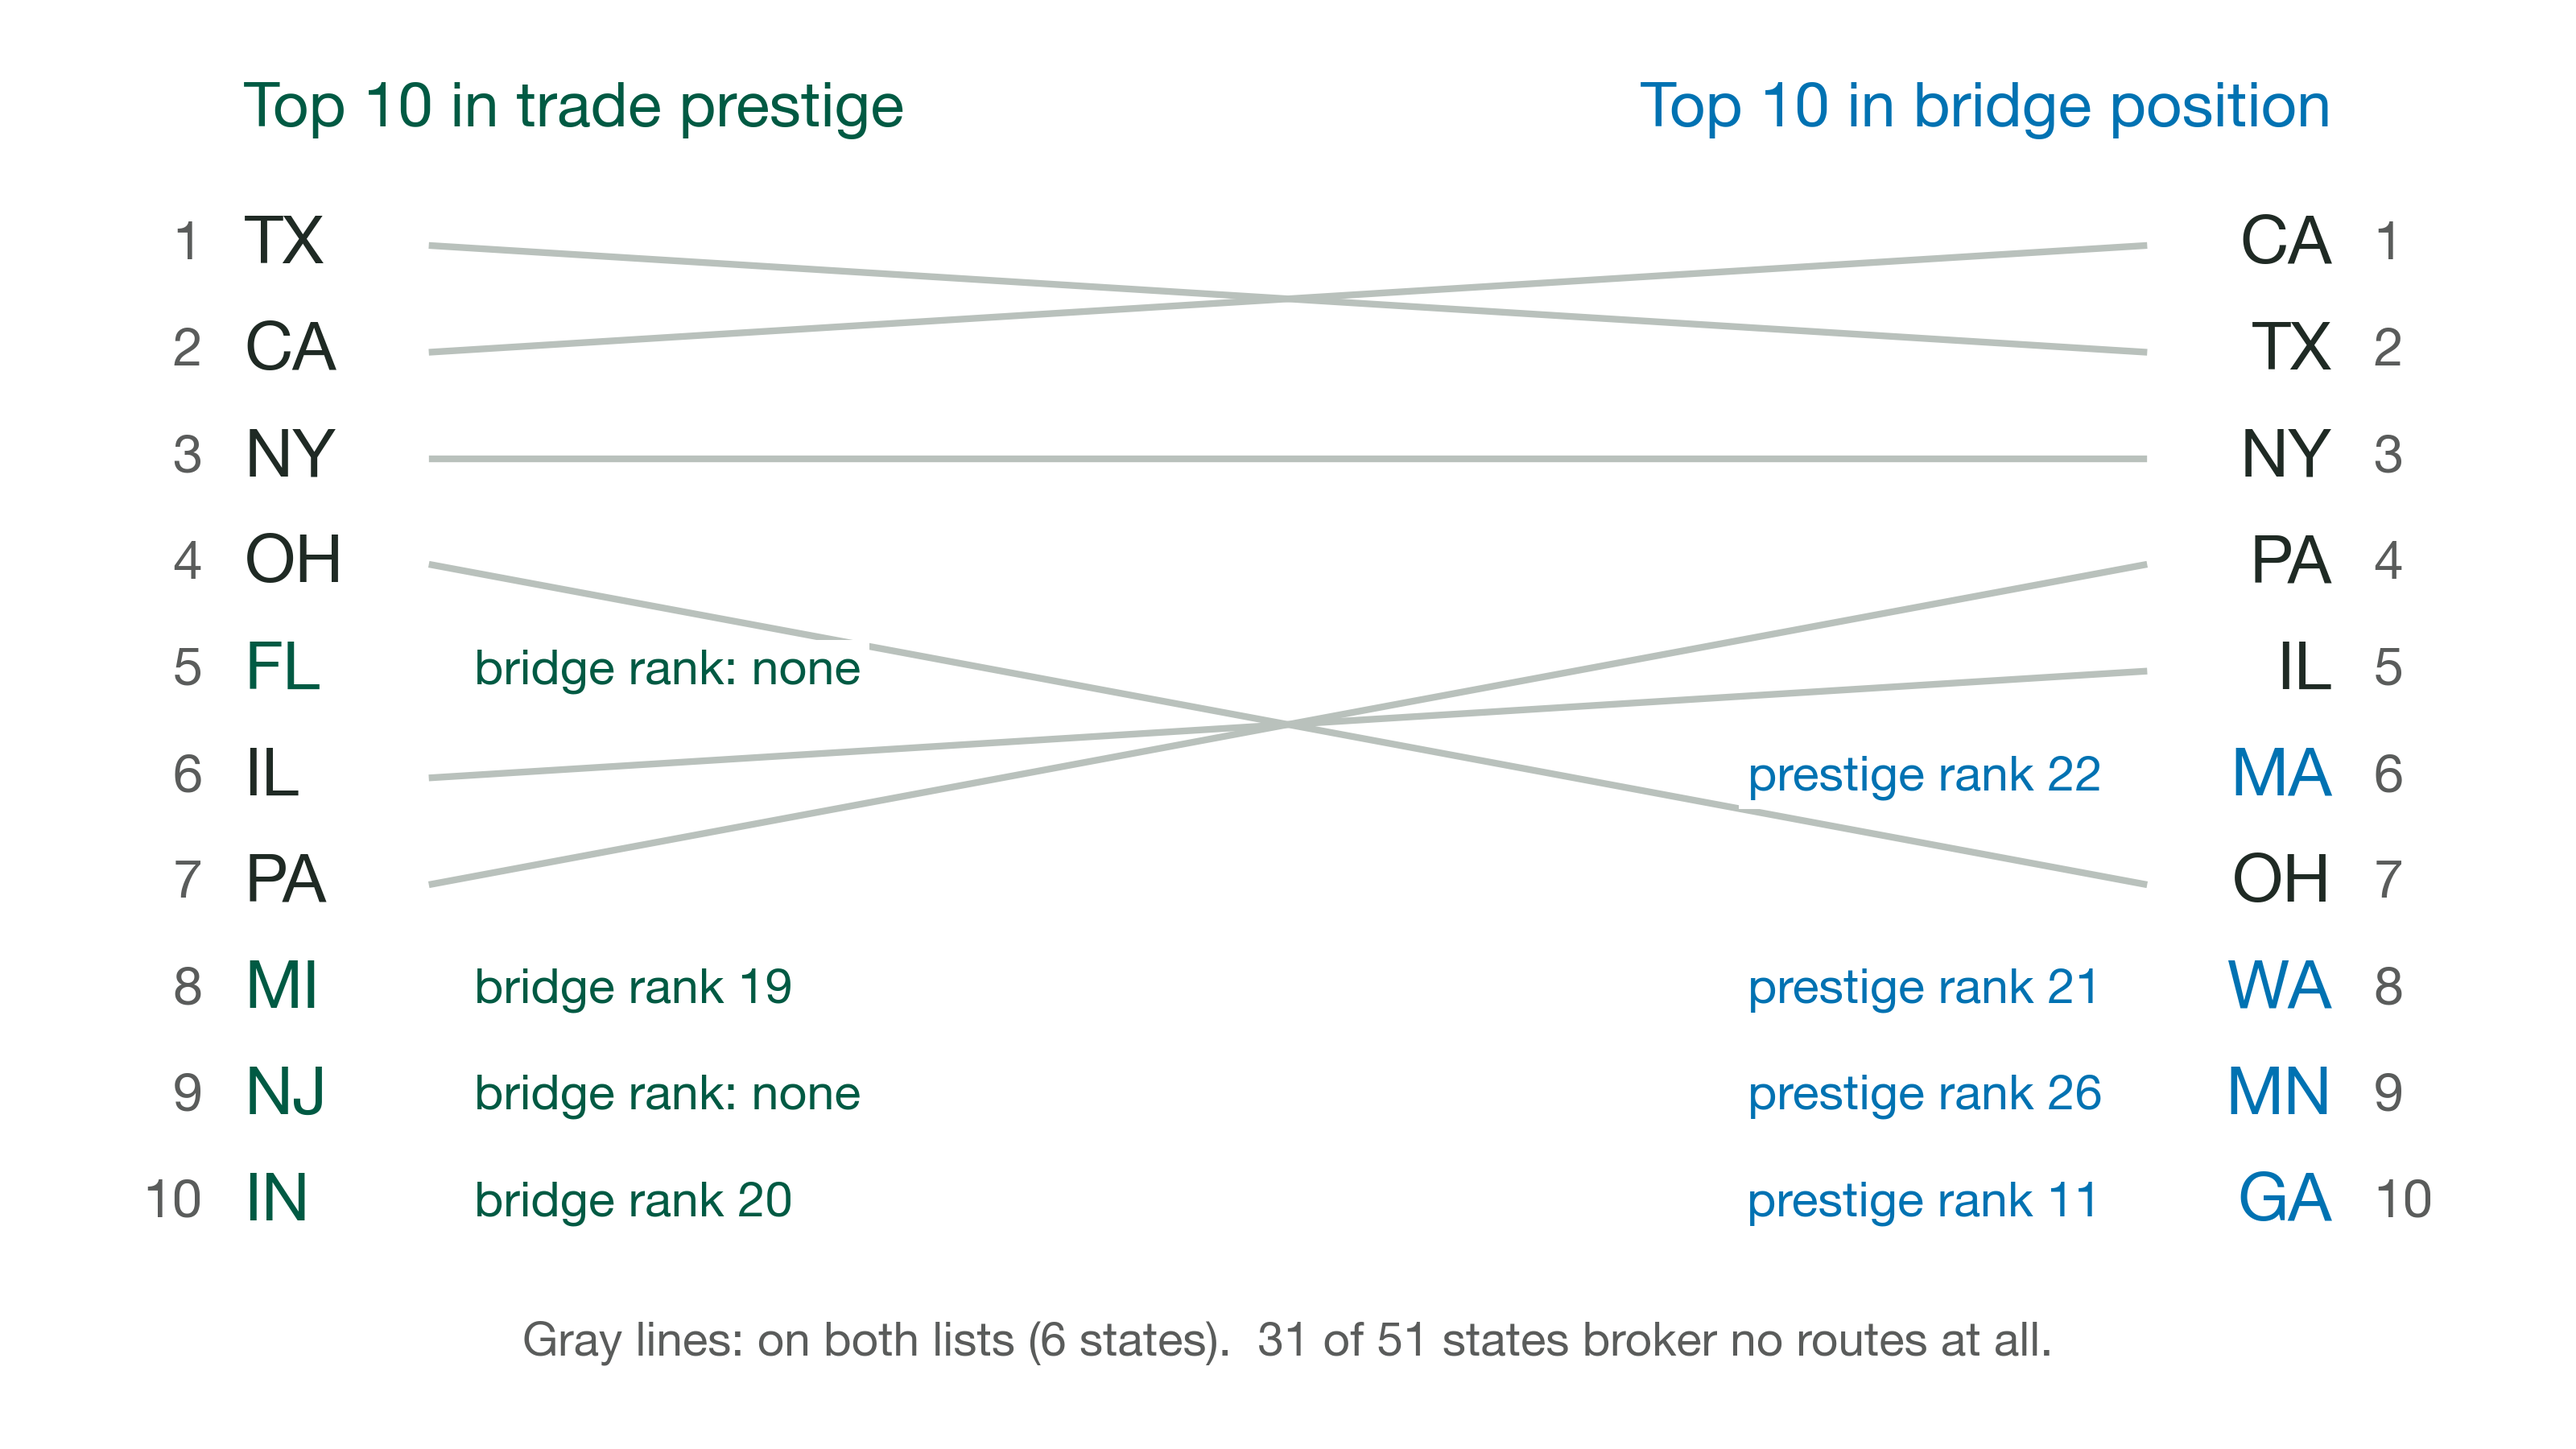
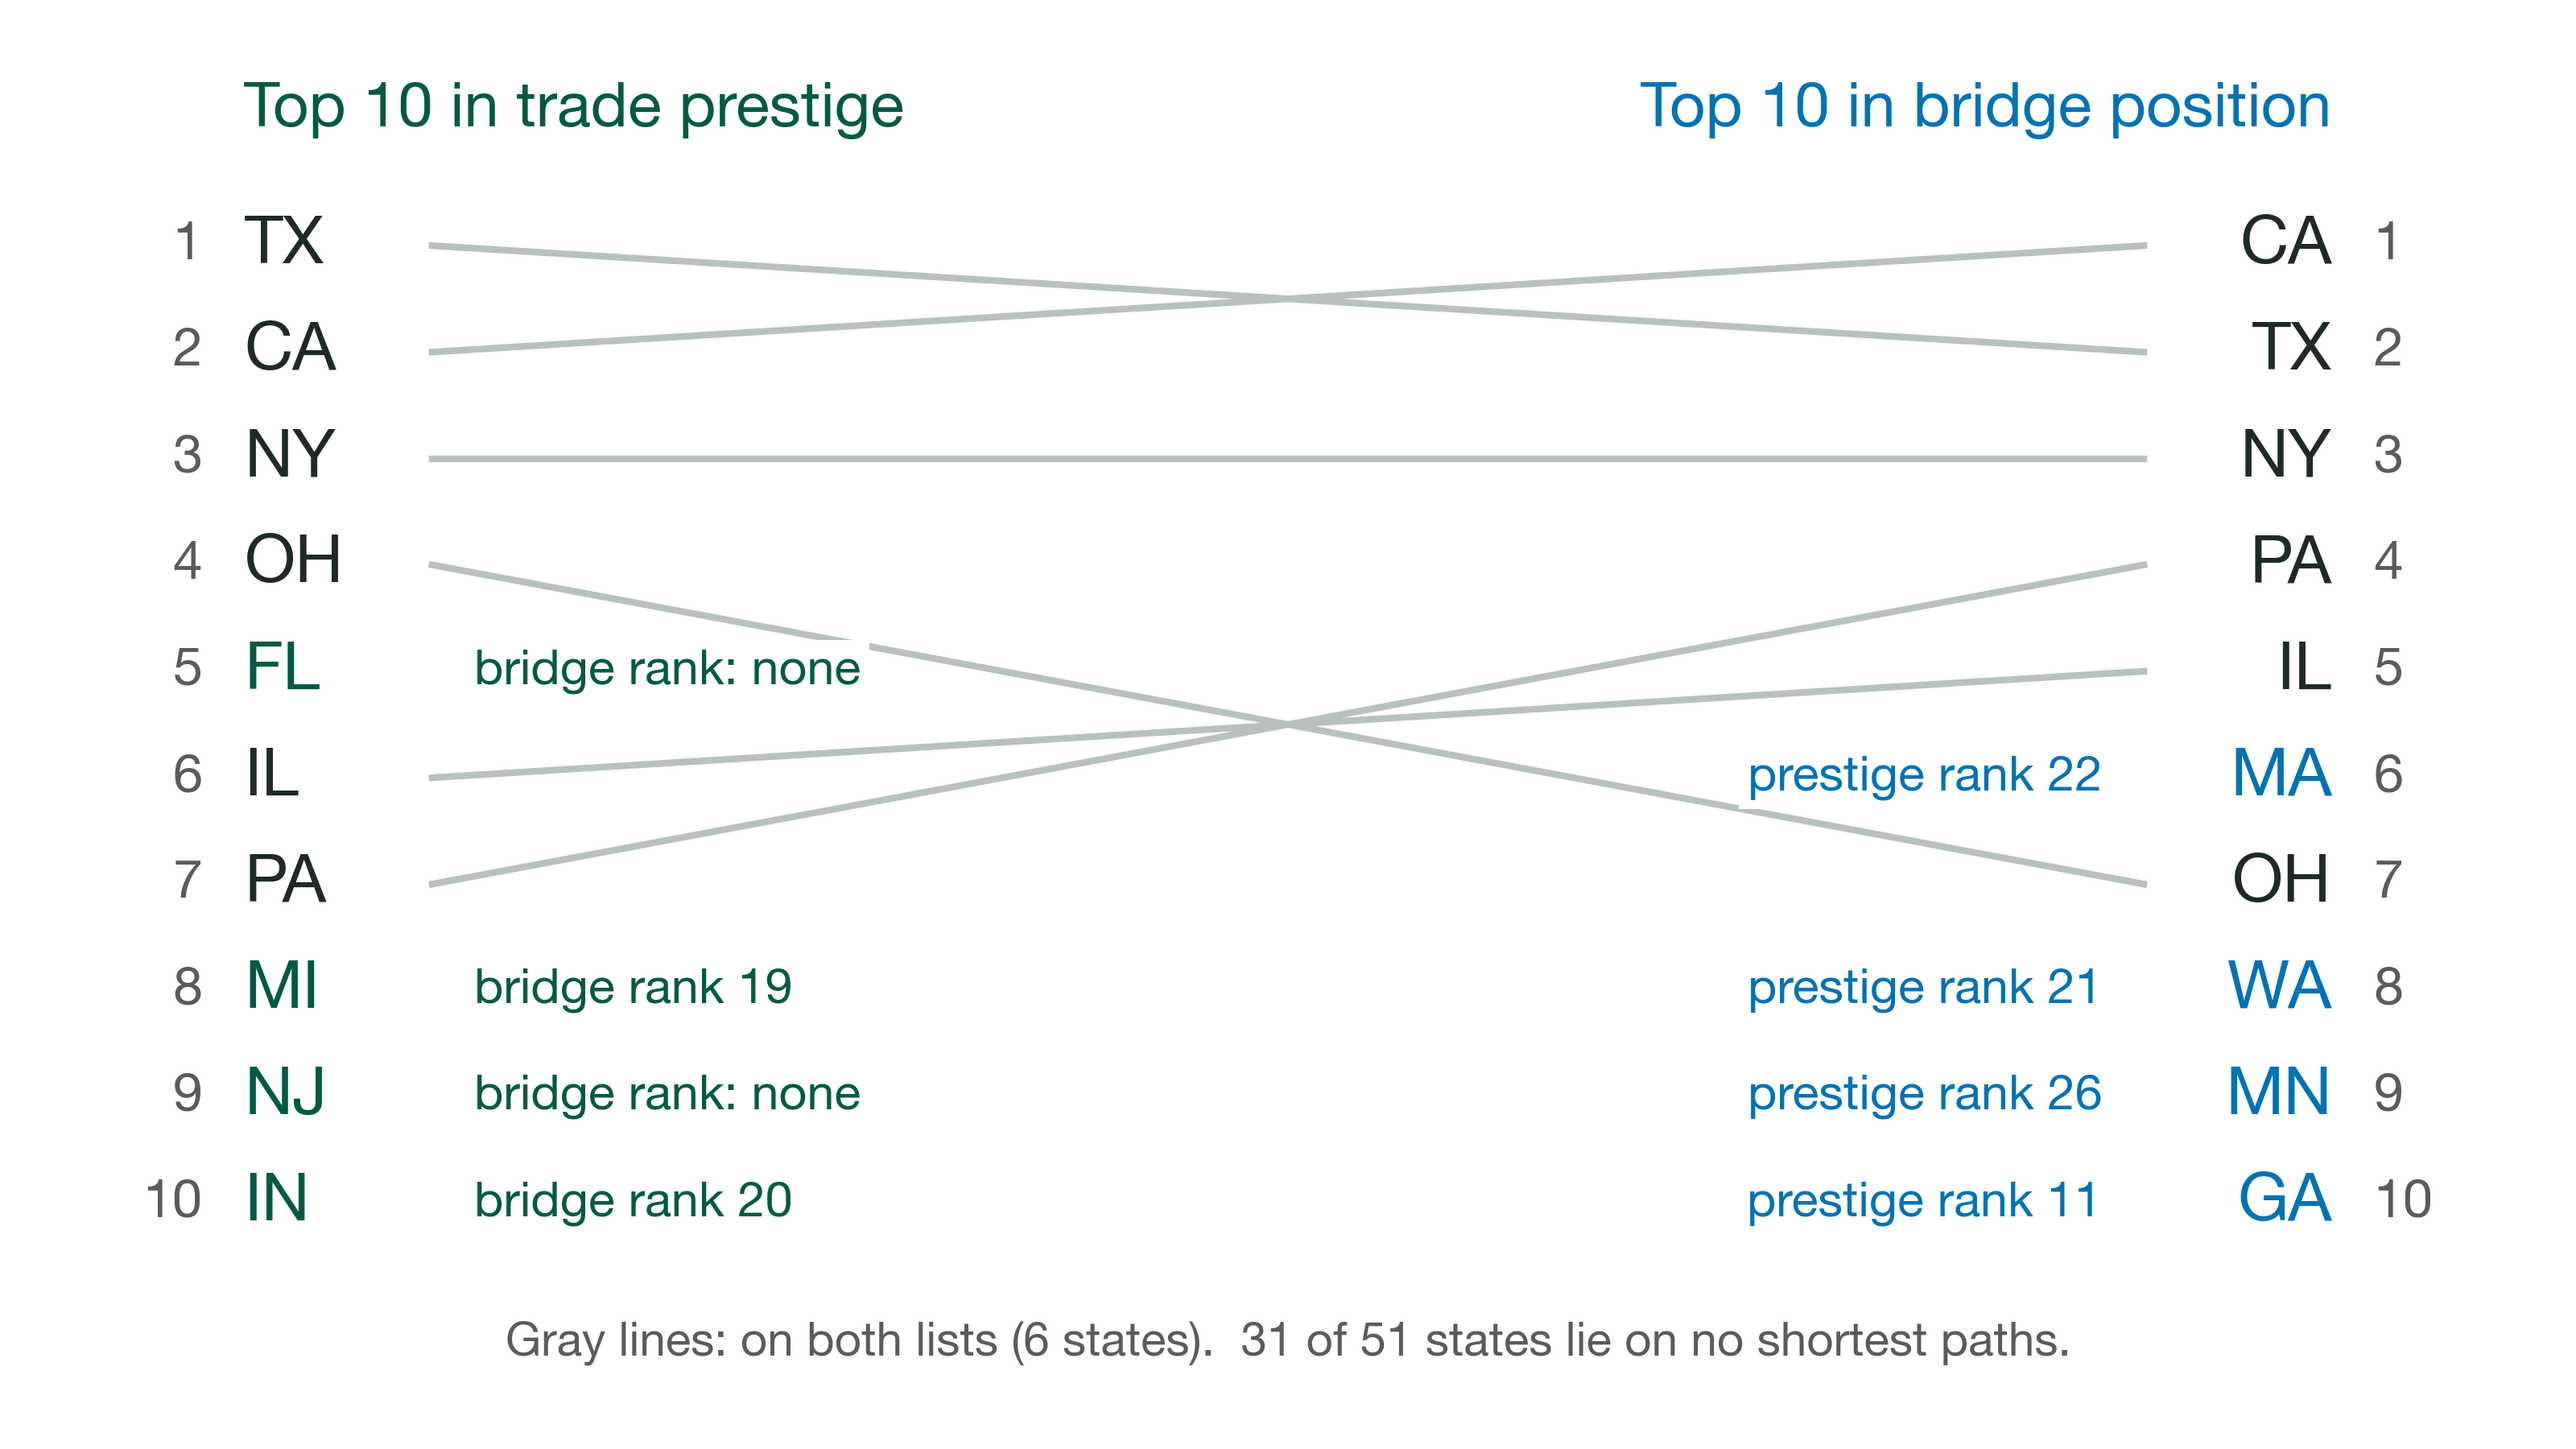
fix(analysis): say shortest paths, not routes, in the slope-chart footer
Betweenness is position in the network; the CFS records only origin and
destination, so no intermediate states are observed.

Changed region(s): [[0.1875, 0.9022, 0.8125, 0.9333]]

diff --git a/analysis/rank_dynamics/make_top10_slope_figure.py b/analysis/rank_dynamics/make_top10_slope_figure.py
@@ -72,7 +72,7 @@ def main():
     ax.text(XL, 0.0, "Top 10 in trade prestige", ha="left", va="bottom", fontsize=28, fontweight="bold", color=PRESTIGE)
     ax.text(XR, 0.0, "Top 10 in bridge position", ha="right", va="bottom", fontsize=28, fontweight="bold", color=BRIDGE)
     ax.text(0.5, 11.1, f"Gray lines: on both lists ({len(both)} states).  "
-            f"{51 - len(brokers)} of 51 states broker no routes at all.",
+            f"{51 - len(brokers)} of 51 states lie on no shortest paths.",
             ha="center", va="top", fontsize=21, color=MUTED)
 
     ax.set_xlim(-0.08, 1.08)
